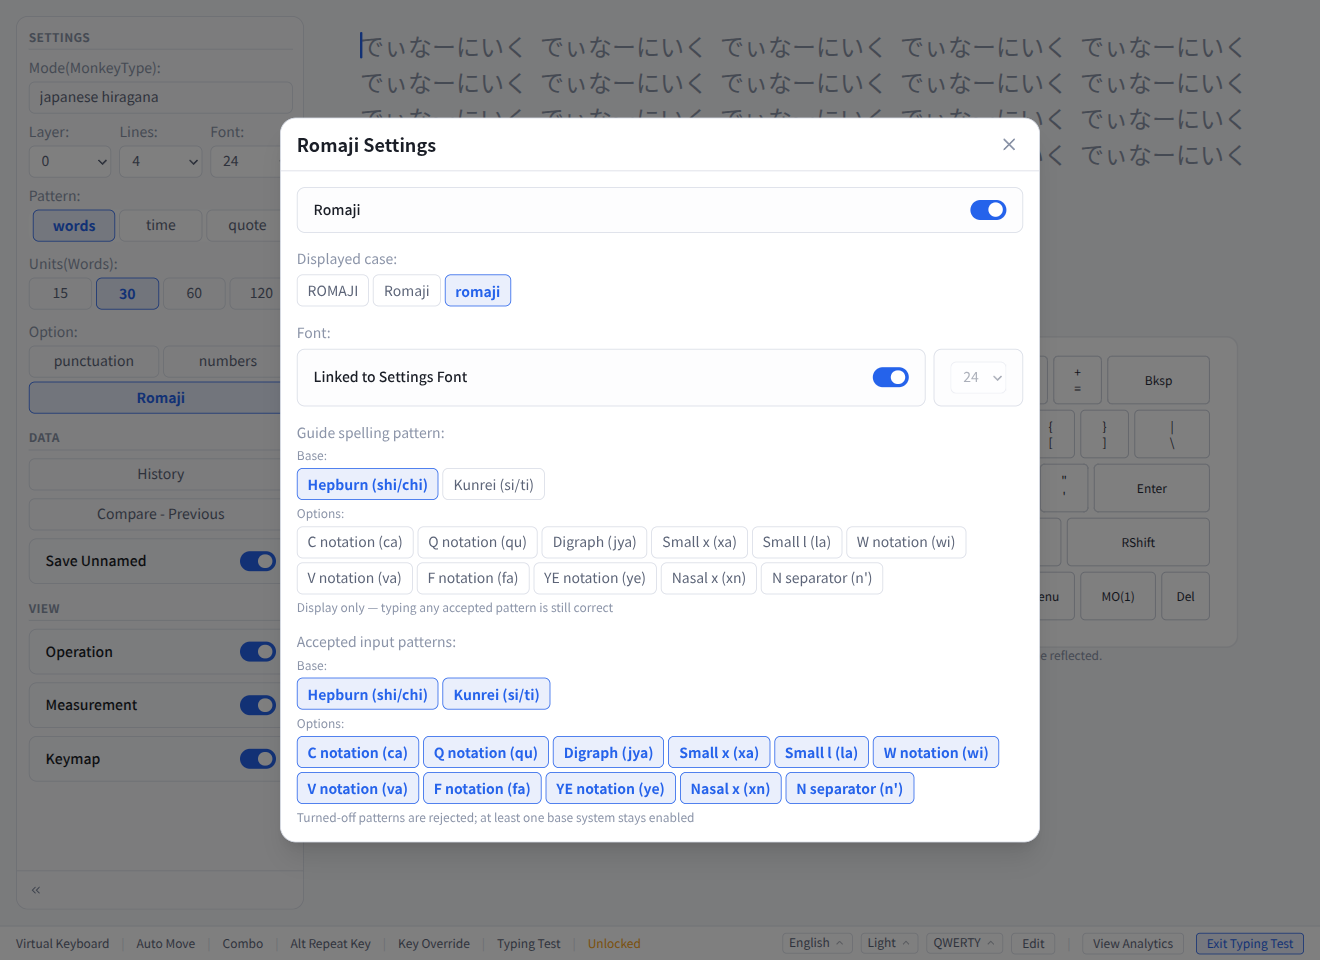
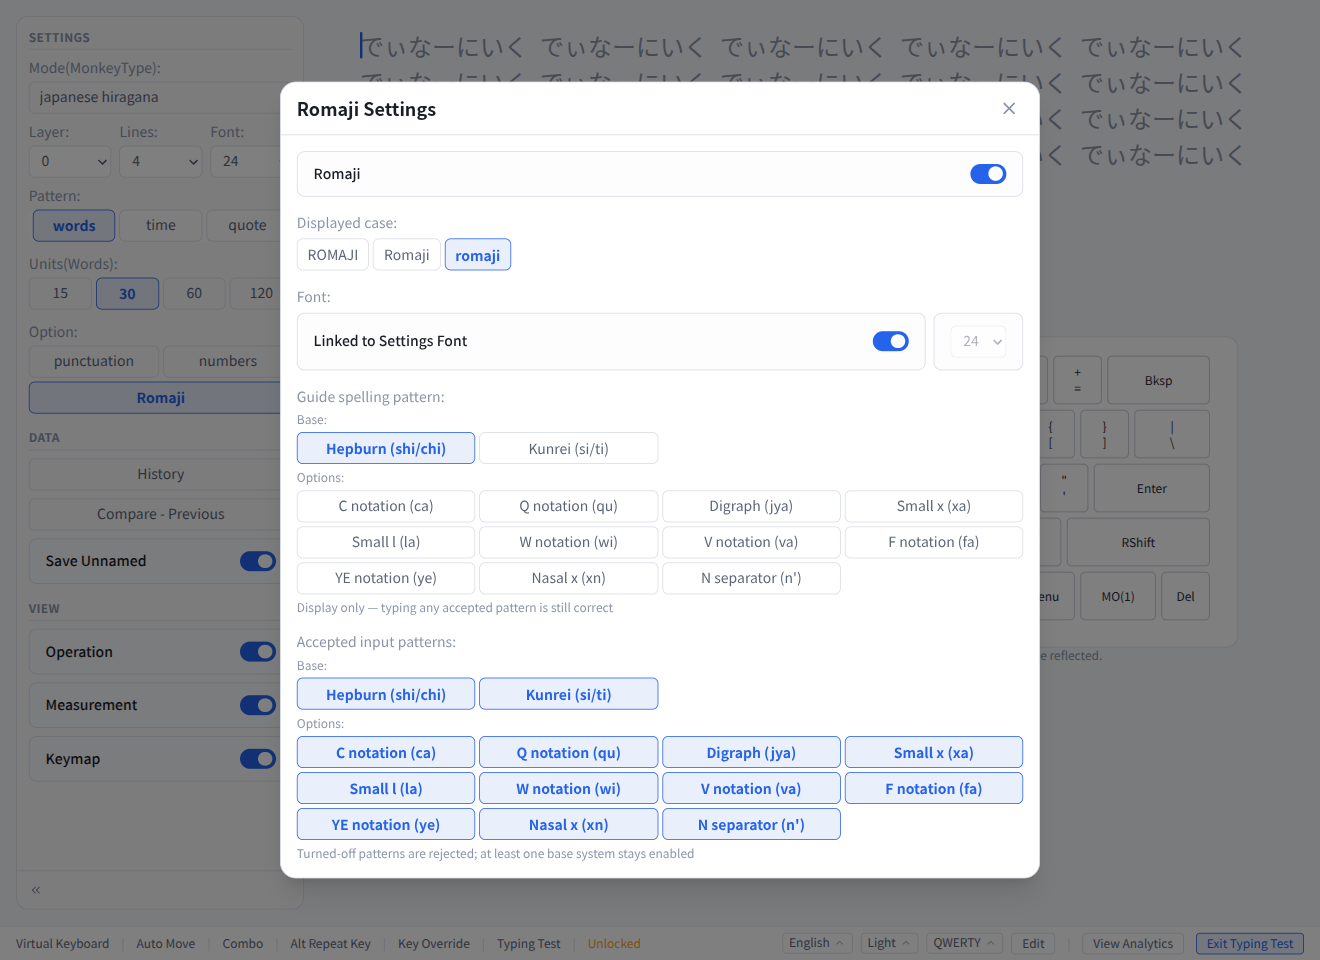
fix(ui): align every style button to a shared grid column width
All four Base/Options rows in the romaji settings modal share one
4-column grid so buttons take the same width regardless of label
length, with the tooltip wrapper stretched to fill its cell.

diff --git a/src/renderer/typing-test/RomajiSettingsModal.tsx b/src/renderer/typing-test/RomajiSettingsModal.tsx
@@ -36,6 +36,14 @@ const CASE_STYLES: readonly RomajiCaseStyle[] = ['upper', 'capital', 'lower']
 const OPTION_STYLES: readonly RomajiStyle[] =
   ['c', 'q', 'digraph', 'xSmall', 'lSmall', 'w', 'v', 'f', 'ye', 'xn', 'nApos']
 
+// Shared by all four Base/Options button rows (Guide and Accepted input
+// patterns each have one of each) so every button lands in the same column
+// width regardless of its label length. Base only ever renders 2 buttons
+// into this 4-column grid, leaving the last 2 cells empty — using the same
+// grid-cols-4 as Options (11 buttons, wrapping to 3 rows) is what makes the
+// two rows' columns line up instead of Base's pair rendering wider.
+const STYLE_GRID_CLASS = 'grid grid-cols-4 gap-1'
+
 /** Drops fields set back to their default value so a persisted config only
  *  ever carries what the user actually changed. The single source of truth
  *  for what "default" means per field (every call site above passes the
@@ -219,14 +227,14 @@ export function RomajiSettingsModal({ config, onConfigChange, linkedFontSize, on
 
             <div className="flex flex-col gap-1">
               <span className="text-xs text-content-muted">{t('editor.typingTest.romajiSettings.inputBaseLabel')}:</span>
-              <div className="flex flex-wrap gap-1">
+              <div className={STYLE_GRID_CLASS}>
                 {BASE_STYLES.map((style) => (
                   <button
                     key={style}
                     type="button"
                     data-testid={`romaji-guide-base-${style}`}
                     aria-pressed={guideBase === style}
-                    className={optionButtonClass(guideBase === style, 'px-2.5')}
+                    className={`${optionButtonClass(guideBase === style, 'px-2.5')} w-full justify-center`}
                     onClick={() => selectGuideBase(style)}
                   >
                     {t(`editor.typingTest.romajiSettings.style.${style}`)}
@@ -237,14 +245,14 @@ export function RomajiSettingsModal({ config, onConfigChange, linkedFontSize, on
 
             <div className="flex flex-col gap-1">
               <span className="text-xs text-content-muted">{t('editor.typingTest.romajiSettings.inputOptionsLabel')}:</span>
-              <div className="flex flex-wrap gap-1">
+              <div className={STYLE_GRID_CLASS}>
                 {OPTION_STYLES.map((style) => (
-                  <Tooltip key={style} content={t(`editor.typingTest.romajiSettings.styleTip.${style}`)} side="top">
+                  <Tooltip key={style} content={t(`editor.typingTest.romajiSettings.styleTip.${style}`)} side="top" wrapperClassName="w-full">
                     <button
                       type="button"
                       data-testid={`romaji-guide-${style}`}
                       aria-pressed={guideStyles.has(style)}
-                      className={optionButtonClass(guideStyles.has(style), 'px-2.5')}
+                      className={`${optionButtonClass(guideStyles.has(style), 'px-2.5')} w-full justify-center`}
                       onClick={() => toggleGuideStyle(style)}
                     >
                       {t(`editor.typingTest.romajiSettings.style.${style}`)}
@@ -265,7 +273,7 @@ export function RomajiSettingsModal({ config, onConfigChange, linkedFontSize, on
 
             <div className="flex flex-col gap-1">
               <span className="text-xs text-content-muted">{t('editor.typingTest.romajiSettings.inputBaseLabel')}:</span>
-              <div className="flex flex-wrap gap-1">
+              <div className={STYLE_GRID_CLASS}>
                 {BASE_STYLES.map((style) => {
                   const baseEnabled = !disabledStyles.has(style)
                   return (
@@ -274,7 +282,7 @@ export function RomajiSettingsModal({ config, onConfigChange, linkedFontSize, on
                       type="button"
                       data-testid={`romaji-base-${style}`}
                       aria-pressed={baseEnabled}
-                      className={optionButtonClass(baseEnabled, 'px-2.5')}
+                      className={`${optionButtonClass(baseEnabled, 'px-2.5')} w-full justify-center`}
                       onClick={() => toggleBaseStyle(style)}
                     >
                       {t(`editor.typingTest.romajiSettings.style.${style}`)}
@@ -286,14 +294,14 @@ export function RomajiSettingsModal({ config, onConfigChange, linkedFontSize, on
 
             <div className="flex flex-col gap-1">
               <span className="text-xs text-content-muted">{t('editor.typingTest.romajiSettings.inputOptionsLabel')}:</span>
-              <div className="flex flex-wrap gap-1">
+              <div className={STYLE_GRID_CLASS}>
                 {OPTION_STYLES.map((style) => (
-                  <Tooltip key={style} content={t(`editor.typingTest.romajiSettings.styleTip.${style}`)} side="top">
+                  <Tooltip key={style} content={t(`editor.typingTest.romajiSettings.styleTip.${style}`)} side="top" wrapperClassName="w-full">
                     <button
                       type="button"
                       data-testid={`romaji-input-${style}`}
                       aria-pressed={!disabledStyles.has(style)}
-                      className={optionButtonClass(!disabledStyles.has(style), 'px-2.5')}
+                      className={`${optionButtonClass(!disabledStyles.has(style), 'px-2.5')} w-full justify-center`}
                       onClick={() => toggleInputStyle(style)}
                     >
                       {t(`editor.typingTest.romajiSettings.style.${style}`)}

diff --git a/src/renderer/typing-test/__tests__/RomajiSettingsModal.test.tsx b/src/renderer/typing-test/__tests__/RomajiSettingsModal.test.tsx
@@ -74,6 +74,20 @@ describe('RomajiSettingsModal defaults', () => {
     expect(select).toBeDisabled()
     expect(select.value).toBe('24')
   })
+
+  // Base and Options share the same grid-cols-4 container so every button
+  // (Base's 2 and Options' 11) lands in an identically wide column, instead
+  // of sizing to its own label's content width.
+  it('lays out the Base and Options rows on the same 4-column grid, for both Guide and Accepted input patterns', () => {
+    renderModal()
+    // Options buttons sit inside a Tooltip wrapper div, so the grid
+    // container is an ancestor rather than the immediate parent — closest()
+    // finds it either way.
+    for (const testid of ['romaji-guide-base-hepburn', 'romaji-guide-c', 'romaji-base-hepburn', 'romaji-input-c']) {
+      const container = screen.getByTestId(testid).closest('.grid-cols-4')
+      expect(container).not.toBeNull()
+    }
+  })
 })
 
 describe('RomajiSettingsModal edits', () => {